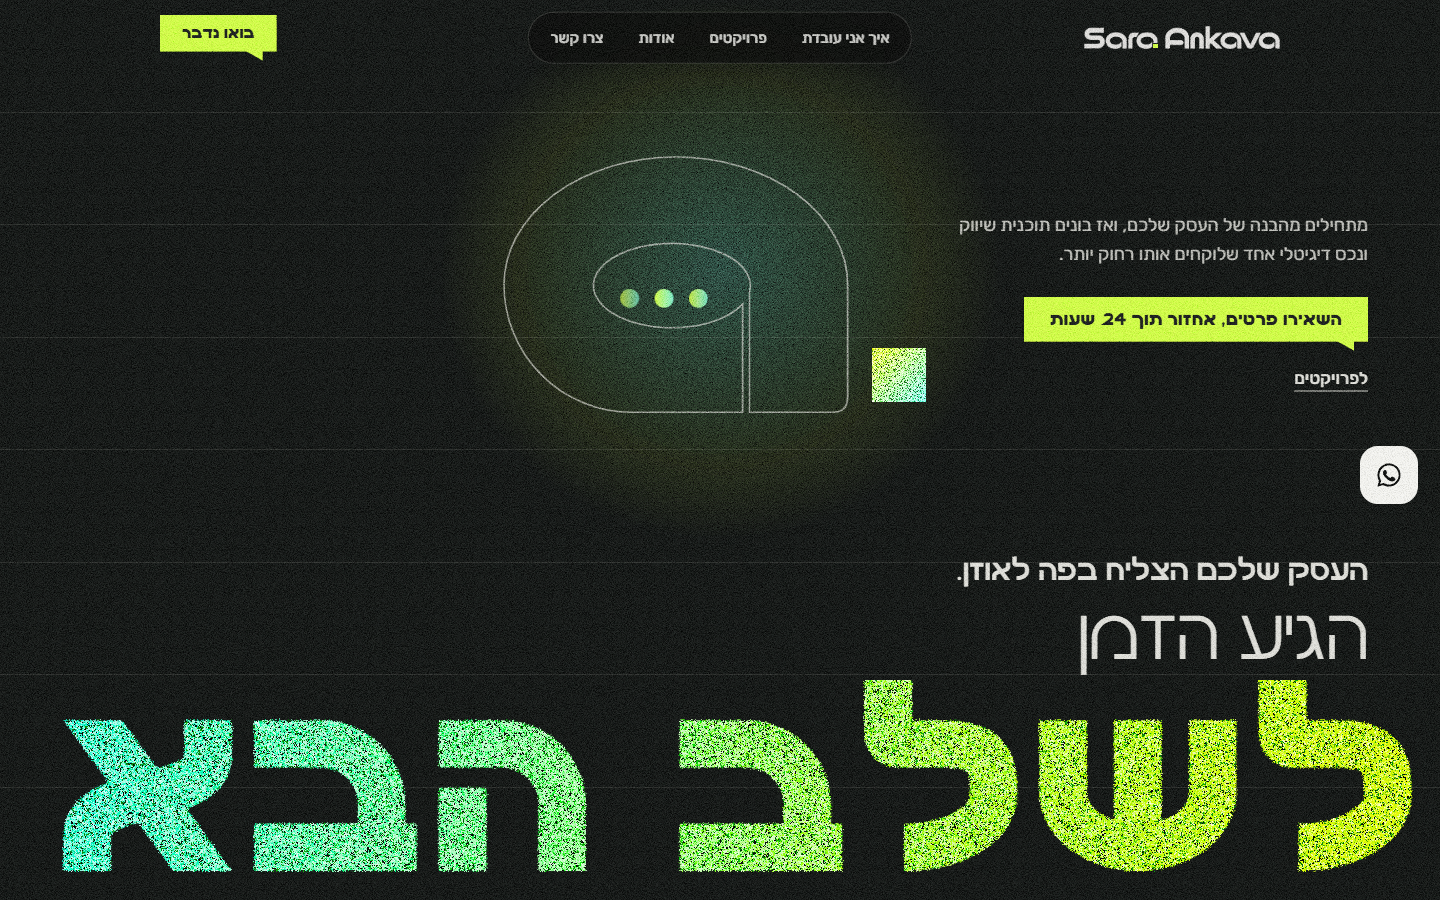
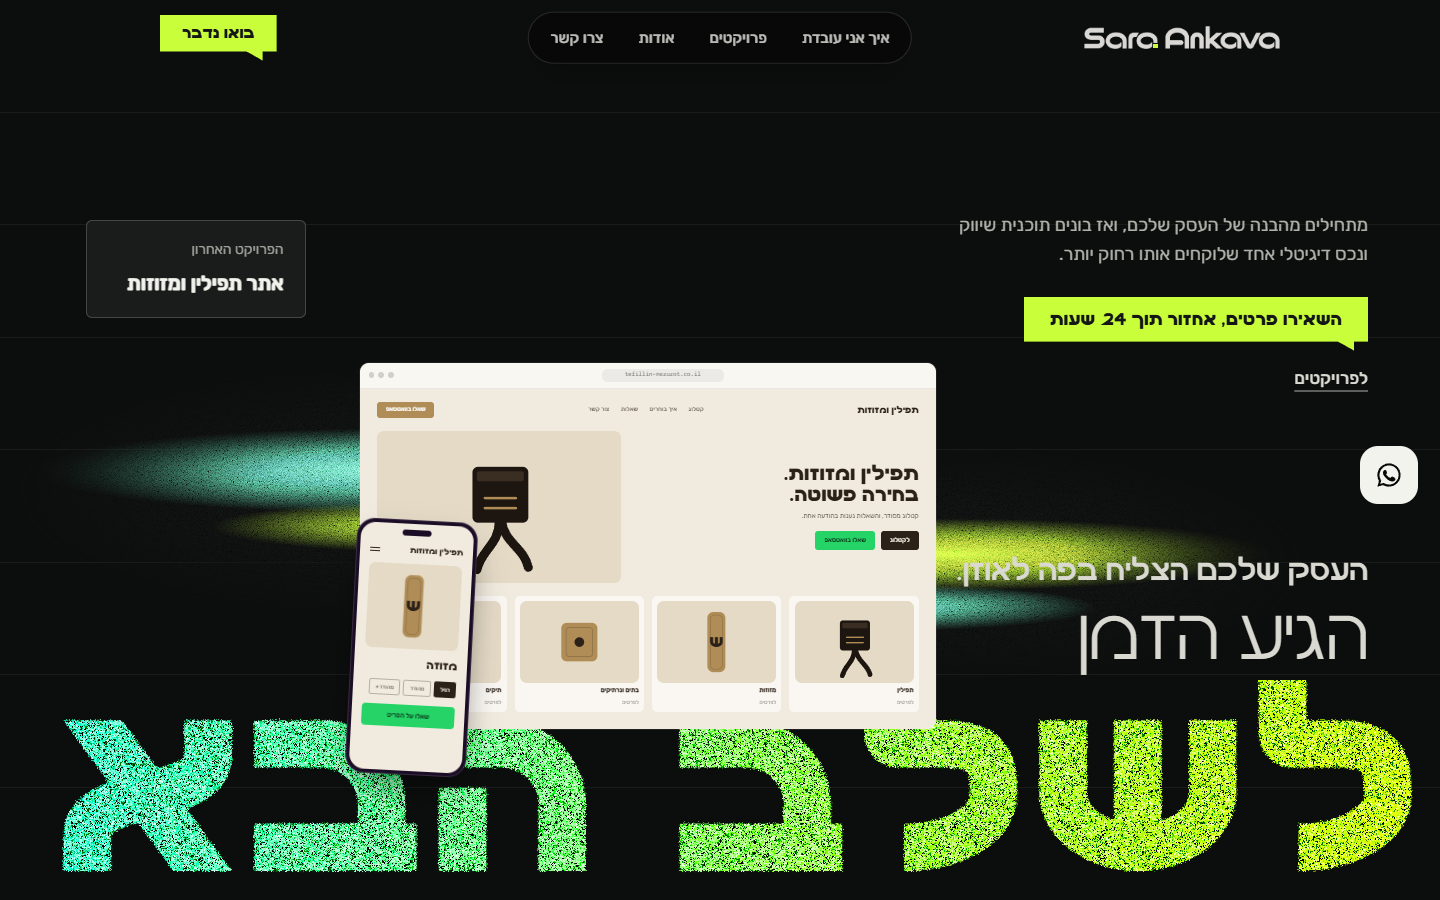
v6 hero: kinetic-style project mockup overlapping the giant word, grain only on gradients

diff --git a/versions/v6/index.html b/versions/v6/index.html
@@ -18,7 +18,7 @@
 <link rel="preload" href="assets/fonts/SaraAnkava-Bold-v1.2.woff2" as="font" type="font/woff2" crossorigin>
 <link rel="stylesheet" href="assets/css/style.css?v=4">
 <link rel="stylesheet" href="assets/css/v4.css?v=2">
-<link rel="stylesheet" href="assets/css/v6.css?v=18">
+<link rel="stylesheet" href="assets/css/v6.css?v=23">
 <meta name="robots" content="noindex">
 <script>document.documentElement.classList.add('js');setTimeout(function(){if(!window.__saReady)document.documentElement.classList.remove('js')},3000)</script>
 <script type="application/ld+json">
@@ -54,7 +54,30 @@
   <svg width="0" height="0" style="position:absolute" aria-hidden="true"><filter id="v6rough" x="-2%" y="-2%" width="104%" height="104%"><feTurbulence type="fractalNoise" baseFrequency=".8" numOctaves="2" seed="2" result="n"/><feDisplacementMap in="SourceGraphic" in2="n" scale="5" xChannelSelector="R" yChannelSelector="G"/></filter></svg>
   <section class="h6 gx" id="top" aria-labelledby="hero-title">
     <div class="h6__grid" aria-hidden="true"><i></i><i></i><i></i><i></i><i></i><i></i><i></i><i></i></div>
-    <div class="h6__art" aria-hidden="true"><svg viewBox="0 0 880 520"><defs><linearGradient id="v6g" x1="0" x2="1"><stop offset="0" stop-color="#C8FF3A"/><stop offset="1" stop-color="#6BF0C4"/></linearGradient></defs><path class="ln" d="M260 520A260 260 0 0 1 0 260A350 260 0 0 1 350 0A350 260 0 0 1 700 260L700 490Q700 520 670 520L500 520L500 275.6A160 86 0 1 0 486 299.5L486 520Z"/><circle class="d" cx="256" cy="288" r="19"/><circle class="d" cx="326" cy="288" r="19"/><circle class="d" cx="396" cy="288" r="19"/></svg><div class="gr-sq"></div></div>
+    <div class="h6__mock" aria-hidden="true">
+      <div class="h6__streak gx s1"></div><div class="h6__streak gx s2"></div>
+      <div class="h6__mkwrap"><div class="mk mk--tef" aria-hidden="true"><div class="mk__win"><div class="mk__bar"><b></b><b></b><b></b><span lang="en" dir="ltr">tefillin-mezuzot.co.il</span></div>
+  <div class="mk__page">
+    <div class="mk__nav"><span class="mk__brand">תפילין ומזוזות</span><span class="mk__links"><span>קטלוג</span><span>איך בוחרים</span><span>שאלות</span><span>צור קשר</span></span><span class="mk__cta">שאלו בוואטסאפ</span></div>
+    <div class="mk__hero">
+      <div><h4 class="mk__h">תפילין ומזוזות.<br>בחירה פשוטה.</h4><p class="mk__p">קטלוג מסודר, והשאלות נענות בהודעה אחת.</p><div class="mk__btns"><span class="mk__btn">לקטלוג</span><span class="mk__btn mk__btn--wa">שאלו בוואטסאפ</span></div></div>
+      <div class="mk__vis"><svg class="mk__art" viewBox="0 0 120 120" aria-hidden="true"><path d="M60 72C60 94 44 98 40 116" fill="none" stroke="#1d1610" stroke-width="8" stroke-linecap="round"/><path d="M62 72C64 92 82 96 86 114" fill="none" stroke="#1d1610" stroke-width="8" stroke-linecap="round"/><rect x="36" y="24" width="50" height="50" rx="5" fill="#1d1610"/><rect x="40" y="28" width="42" height="9" rx="2" fill="#3a2d22"/><path d="M47 52h28M47 61h28" stroke="#B08D57" stroke-width="2.2" stroke-linecap="round"/></svg></div>
+    </div>
+    <div class="mk__row">
+      <div class="mk__card"><div class="mk__vis"><svg class="mk__art" viewBox="0 0 120 120" aria-hidden="true"><path d="M60 72C60 94 44 98 40 116" fill="none" stroke="#1d1610" stroke-width="8" stroke-linecap="round"/><path d="M62 72C64 92 82 96 86 114" fill="none" stroke="#1d1610" stroke-width="8" stroke-linecap="round"/><rect x="36" y="24" width="50" height="50" rx="5" fill="#1d1610"/><rect x="40" y="28" width="42" height="9" rx="2" fill="#3a2d22"/><path d="M47 52h28M47 61h28" stroke="#B08D57" stroke-width="2.2" stroke-linecap="round"/></svg></div><b>תפילין</b><small>לפרטים</small></div>
+      <div class="mk__card"><div class="mk__vis"><svg class="mk__art" viewBox="0 0 120 120" aria-hidden="true"><rect x="45" y="10" width="30" height="100" rx="10" fill="#B08D57"/><rect x="50" y="15" width="20" height="90" rx="7" fill="none" stroke="#2B2118" stroke-opacity=".28"/><text x="60" y="68" text-anchor="middle" font-size="27" font-weight="700" fill="#2B2118" font-family="Sara Ankava,Rubik,sans-serif">ש</text></svg></div><b>מזוזות</b><small>לפרטים</small></div>
+      <div class="mk__card"><div class="mk__vis"><svg class="mk__art" viewBox="0 0 120 120" aria-hidden="true"><rect x="30" y="28" width="60" height="64" rx="9" fill="#B08D57"/><rect x="38" y="36" width="44" height="48" rx="5" fill="none" stroke="#2B2118" stroke-opacity=".35"/><circle cx="60" cy="60" r="8" fill="#2B2118"/></svg></div><b>בתים ונרתיקים</b><small>לפרטים</small></div>
+      <div class="mk__card"><div class="mk__vis"><svg class="mk__art" viewBox="0 0 120 120" aria-hidden="true"><rect x="26" y="40" width="68" height="50" rx="8" fill="#2B2118"/><path d="M46 40v-8a14 14 0 0 1 28 0v8" fill="none" stroke="#2B2118" stroke-width="6"/><rect x="26" y="58" width="68" height="6" fill="#B08D57"/></svg></div><b>תיקים</b><small>לפרטים</small></div>
+    </div>
+  </div><span class="mk__wa"></span></div><div class="mk__phone"><div class="mk__scr">
+    <div class="mk__ptop"><span class="mk__brand">תפילין ומזוזות</span><span class="mk__ham"><i></i><i></i></span></div>
+    <div class="mk__vis"><svg class="mk__art" viewBox="0 0 120 120" aria-hidden="true"><rect x="45" y="10" width="30" height="100" rx="10" fill="#B08D57"/><rect x="50" y="15" width="20" height="90" rx="7" fill="none" stroke="#2B2118" stroke-opacity=".28"/><text x="60" y="68" text-anchor="middle" font-size="27" font-weight="700" fill="#2B2118" font-family="Sara Ankava,Rubik,sans-serif">ש</text></svg></div>
+    <b class="mk__ph">מזוזה</b>
+    <div class="mk__chips"><span class="on">רגיל</span><span>מהודר</span><span>מהודר+</span></div>
+    <span class="mk__pbtn">שאלו על הפריט</span>
+  </div></div></div></div>
+    </div>
+    <a class="h6__card" href="#projects"><span>הפרויקט האחרון</span><b>אתר תפילין ומזוזות</b></a>
     <div class="h6__info">
       <p class="h6__p">מתחילים מהבנה של העסק שלכם, ואז בונים תוכנית שיווק ונכס דיגיטלי אחד שלוקחים אותו רחוק יותר.</p>
       <div class="h6__ctas"><a class="cta6" href="#contact">השאירו פרטים, אחזור תוך 24 שעות</a><a class="h6__link" href="#projects">לפרויקטים</a></div>
@@ -495,7 +518,7 @@
 <script src="assets/js/v4.js?v=2" defer></script>
 <script>(function(){
   var still=location.hash==="#still";
-  if(still){var s=document.createElement("style");s.textContent=".h6__big>span,.h6__info{animation:none!important;transform:none!important;opacity:1!important}";document.head.appendChild(s)}
+  if(still){var s=document.createElement("style");s.textContent=".h6__big>span,.h6__info,.h6__mkwrap{animation:none!important;opacity:1!important;transform:none!important;opacity:1!important}";document.head.appendChild(s)}
   function fit(){
     var big=document.querySelector(".h6__big"),inner=big.firstElementChild,title=document.querySelector(".h6__title");
     var target=title.clientWidth-2*(innerWidth*0.012);

diff --git a/versions/v6/assets/css/v6.css b/versions/v6/assets/css/v6.css
@@ -123,3 +123,43 @@ body::before{opacity:.5;mix-blend-mode:overlay;background-image:var(--v6-n);back
   .wa{inset-block-end:42vh;inset-inline-end:12px}
   .h6__big{padding-bottom:20px}
 }
+
+/* ===== v7 הירו בהשראת kinetic: מוקאפ של פרויקט חופף לכותרת הענקית, שובלי גרדיאנט מגורען, בלי גרעון ברקע ===== */
+body::before,body::after{display:none!important}
+.h6.gx{--gx-base:#0c0e0d;background-image:none;background-color:var(--gx-base)}
+.h6__grid i{border-bottom-color:rgb(217 217 210 / .07)}
+.h6__title{z-index:auto}
+.h6__small,.h6__mid{position:relative;z-index:4}
+.h6__big{position:relative;z-index:1}
+.h6__mock{position:absolute;z-index:2;left:45%;transform:translateX(-50%);bottom:13vh;width:38vw}
+.h6__mkwrap{position:relative;z-index:2;transform:rotate(-2.2deg);opacity:0;animation:h6-fade 1s ease forwards .5s}
+.h6__mkwrap .mk__win{box-shadow:0 0 0 1px rgb(255 255 255 / .08)}
+/* שובלי תנועה: גרדיאנט מנטה/ליים עם גרגר, בשוליים דהויים */
+.h6__streak.gx{position:absolute;z-index:1;--gx-base:#0c0e0d;pointer-events:none;
+  -webkit-mask-image:radial-gradient(closest-side,#000 35%,transparent 100%);mask-image:radial-gradient(closest-side,#000 35%,transparent 100%)}
+.h6__streak.s1{left:-42%;top:6%;width:100%;height:56%;
+  background-image:var(--v6-n),radial-gradient(ellipse 52% 16% at 50% 40%,rgb(107 240 196 / .95),transparent 80%),radial-gradient(ellipse 40% 10% at 62% 62%,rgb(200 255 58 / .85),transparent 80%);
+  background-size:170px auto,auto,auto;background-blend-mode:overlay,normal,normal;animation:h6-drift 9s ease-in-out infinite alternate}
+.h6__streak.s2{right:-40%;top:30%;width:96%;height:50%;
+  background-image:var(--v6-n),radial-gradient(ellipse 50% 14% at 50% 45%,rgb(200 255 58 / .9),transparent 80%),radial-gradient(ellipse 36% 9% at 40% 66%,rgb(107 240 196 / .8),transparent 80%);
+  background-size:170px auto,auto,auto;background-blend-mode:overlay,normal,normal;animation:h6-drift 11s ease-in-out infinite alternate-reverse}
+@keyframes h6-drift{to{transform:translateX(5%)}}
+/* כרטיס זכוכית שטוח */
+.h6__card{position:absolute;z-index:3;left:calc(var(--v6-m) + 1vw);top:calc(var(--hdr,76px) + 16vh);display:grid;gap:6px;padding:18px 22px;min-width:220px;text-decoration:none;color:var(--v6-paper);background:rgb(217 217 210 / .07);-webkit-backdrop-filter:blur(14px);backdrop-filter:blur(14px);border:1px solid rgb(217 217 210 / .22);border-radius:6px;transition:border-color .25s}
+.h6__card span{font-size:14px;color:rgb(217 217 210 / .7)}
+.h6__card b{font-size:20px;font-weight:700}
+.h6__card:hover{border-color:var(--v6-lime)}
+@media (max-width:900px){
+  .h6__mock{position:relative;left:auto;transform:none;bottom:auto;width:84vw;margin:10px auto 22px}
+  .h6__streak{display:none}
+  .h6__card{display:none}
+  .h6__mkwrap{transform:rotate(-2deg)}
+}
+@media (prefers-reduced-motion:reduce){.h6__mkwrap{animation:none;opacity:1}.h6__streak{animation:none}}
+@media (min-width:901px){.h6__mock{bottom:25vh;width:40vw}}
+.h6__streak.s1{left:-60%;top:0;width:130%;height:70%;background-image:var(--v6-n),radial-gradient(ellipse 58% 20% at 50% 42%,rgb(107 240 196 / 1),transparent 82%),radial-gradient(ellipse 46% 13% at 64% 64%,rgb(200 255 58 / .95),transparent 82%)}
+.h6__streak.s2{right:-58%;top:22%;width:124%;height:66%;background-image:var(--v6-n),radial-gradient(ellipse 56% 18% at 50% 46%,rgb(200 255 58 / 1),transparent 82%),radial-gradient(ellipse 40% 12% at 38% 68%,rgb(107 240 196 / .9),transparent 82%)}
+@media (min-width:901px){.h6__mock{bottom:19vh}}
+
+@media (max-width:900px){.h6__mock{position:relative;left:auto;transform:none;bottom:auto;width:84vw;margin:6px auto 22px}.h6__streak,.h6__card{display:none}}
+@media (max-width:900px){.wa{inset-block-end:26vh}}
